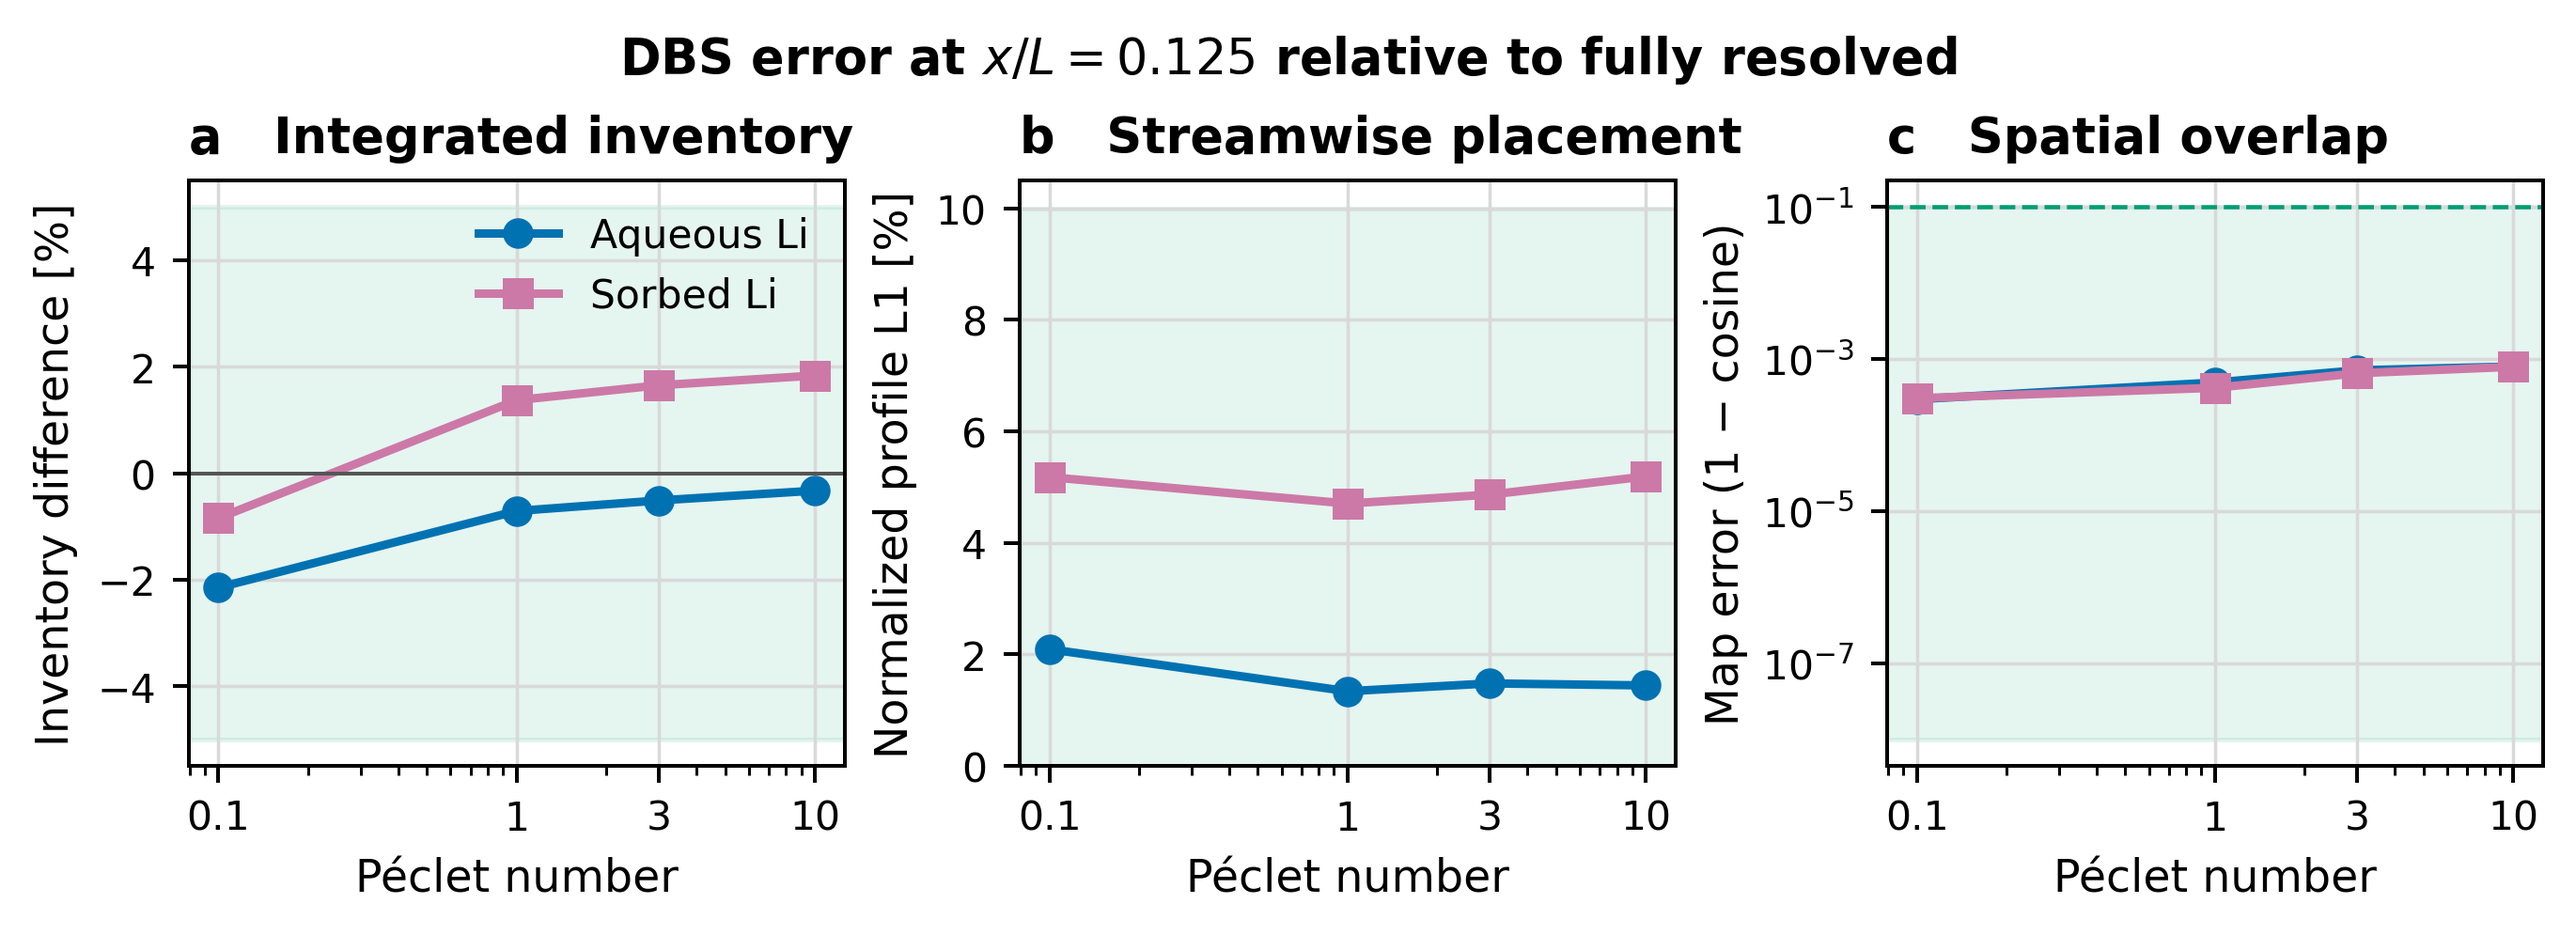
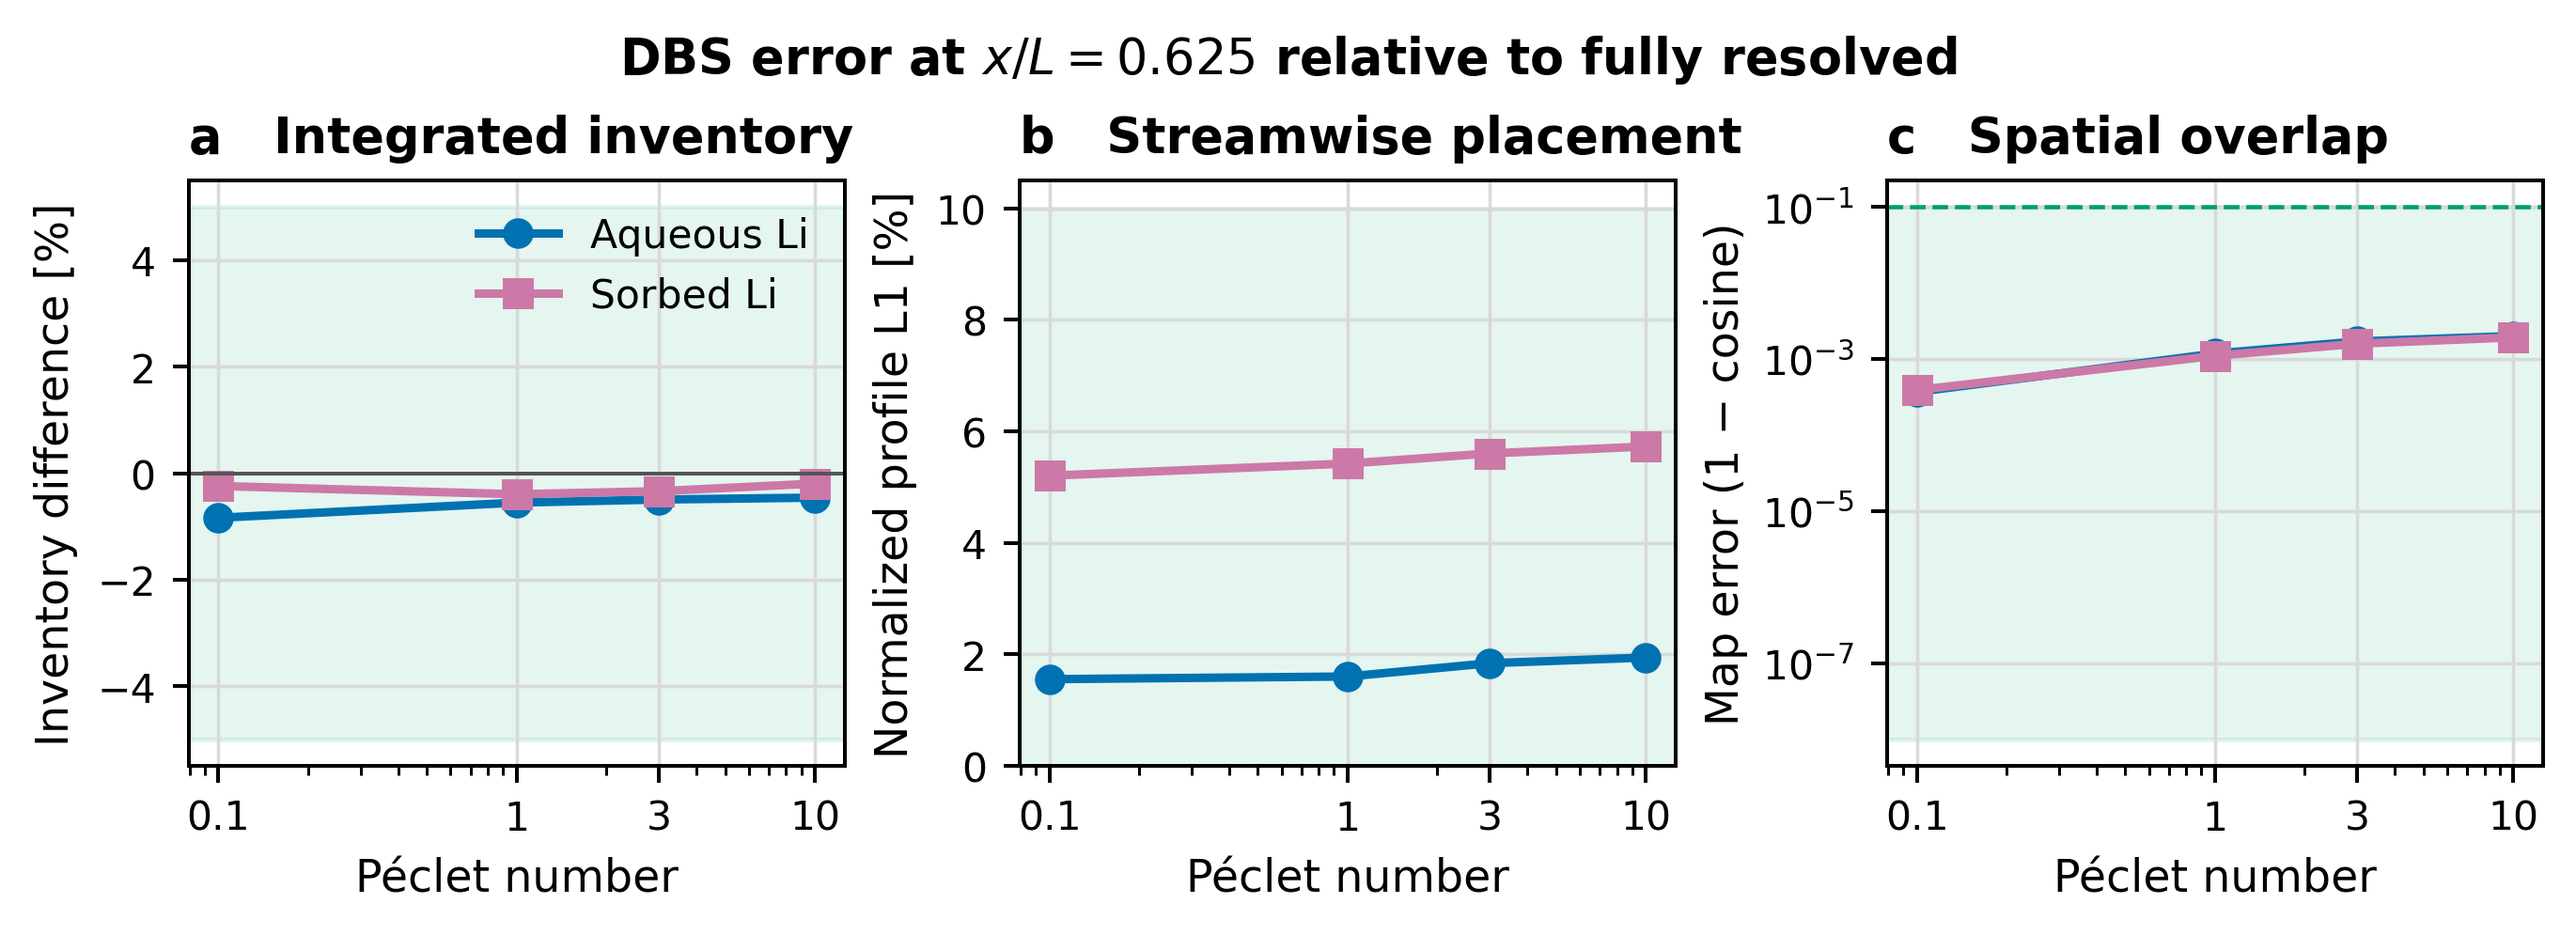
Correct Figure 9 to midpoint comparisons

diff --git a/papers/scalarTransportDBSFoam-phreeqc-surface-complexation/sections/05_validation.tex b/papers/scalarTransportDBSFoam-phreeqc-surface-complexation/sections/05_validation.tex
@@ -191,20 +191,20 @@ coarser images gave increasing local Li-field differences even where bulk
 porosity, permeability, and reactive area remained similar.
 
 Figure~\ref{fig:twoScaleErrorPe} compares aqueous and sorbed Li at
-$x/L=0.125$ for $\mathrm{Pe}=0.1$, $1$, $3$, and $10$. The acceptance limits
+$x/L=0.625$ for $\mathrm{Pe}=0.1$, $1$, $3$, and $10$. The acceptance limits
 were $5\%$ absolute inventory difference, $10\%$ normalized streamwise-profile
 L1 error, and $0.1$ map dissimilarity. Across the sweep, the largest aqueous
-and sorbed inventory differences are $2.15\%$ and $1.83\%$, respectively; the
-largest profile errors are $2.09\%$ and $5.19\%$; and every map dissimilarity
-is below $8.0\times10^{-4}$. All four cases therefore pass the predefined
-criteria. The error does not grow systematically with P\'{e}clet number, and no
+and sorbed inventory differences are $0.84\%$ and $0.40\%$, respectively; the
+largest profile errors are $1.94\%$ and $5.73\%$; and every map dissimilarity
+is below $2.1\times10^{-3}$. All four cases therefore pass the predefined
+criteria. Profile and map errors rise modestly with P\'{e}clet number, but no
 breakdown of the upscaling is observed by $\mathrm{Pe}=10$ for this geometry.
 
 \begin{figure}[htbp]
     \centering
     \includegraphics[width=\linewidth]{figures/png/fig09_two_scale_error_vs_peclet.png}
     \caption{DBS-upscaled error relative to the fully resolved lithium-sorption
-    reference at matched $x/L=0.125$. (a)~Signed differences in integrated
+    reference at matched $x/L=0.625$. (a)~Signed differences in integrated
     aqueous and sorbed Li inventory. (b)~Normalized L1 errors of the
     streamwise profiles. (c)~Map dissimilarity, defined as one minus cosine
     similarity. Green shading marks the predefined acceptance region in each

diff --git a/papers/scalarTransportDBSFoam-phreeqc-surface-complexation/sections/07_discussion.tex b/papers/scalarTransportDBSFoam-phreeqc-surface-complexation/sections/07_discussion.tex
@@ -67,8 +67,8 @@ resolves the local connectivity.
 
 The direct resolved-to-DBS comparison shows that the coarse representation also
 preserves the bulk transport and sorption response over the tested range
-$\mathrm{Pe}=0.1$--$10$. Inventory differences remain below $2.2\%$ and
-profile errors below $5.2\%$, with no systematic increase in error over the
+$\mathrm{Pe}=0.1$--$10$. Inventory differences remain below $0.9\%$ and
+profile errors below $5.8\%$. Profile and map errors rise modestly over the
 P\'{e}clet-number sweep. This establishes the tested range rather than a general
 asymptotic limit: higher P\'{e}clet numbers, different connectivity, or sharper
 kinetic fronts may still expose an upscaling failure.

diff --git a/papers/scalarTransportDBSFoam-phreeqc-surface-complexation/sections/01_abstract.tex b/papers/scalarTransportDBSFoam-phreeqc-surface-complexation/sections/01_abstract.tex
@@ -17,7 +17,7 @@ complex 3D image-based cases, based on Kelvin and Estaillades-style geometries,
 show that the formulation extends to fully three-dimensional pore structures
 while preserving the intended transport-reaction structure. A direct comparison
 against a fully resolved lithium-sorption micromodel gives aqueous and sorbed
-inventory differences below $2.2\%$ and profile errors below $5.2\%$ over
+inventory differences below $0.9\%$ and profile errors below $5.8\%$ over
 P\'{e}clet numbers from $0.1$ to $10$. Together, the
 results establish the conservative DBS surface-complexation coupling as a
 viable approach for multi-scale reactive transport in segmented porous-media

diff --git a/papers/scalarTransportDBSFoam-phreeqc-surface-complexation/sections/08_conclusions.tex b/papers/scalarTransportDBSFoam-phreeqc-surface-complexation/sections/08_conclusions.tex
@@ -23,7 +23,7 @@ transparent 2D and 3D image-based geometries; and (iii) remains computationally
 tractable at application scale, with chemistry representing 36--55\% of the
 total wall-clock time for the calcium surface-complexation system studied here;
 and (iv) matches fully resolved lithium transport and sorption with inventory
-differences below $2.2\%$ and profile errors below $5.2\%$ from
+differences below $0.9\%$ and profile errors below $5.8\%$ from
 $\mathrm{Pe}=0.1$ to $10$.
 
 The method closes a specific gap in existing DBS reactive transport

diff --git a/papers/scalarTransportDBSFoam-phreeqc-surface-complexation/figures/png/README.md b/papers/scalarTransportDBSFoam-phreeqc-surface-complexation/figures/png/README.md
@@ -48,7 +48,7 @@ Current staged figures:
   - right: normalised incremental Surf_aCa⁺ and Surf_aSr⁺ domain-mean vs time
 - `fig09_two_scale_error_vs_peclet.png`
   - fully resolved versus DBS-upscaled inventory, placement, and map errors at
-    matched `x/L = 0.125` for Pe=0.1, 1, 3, and 10
+    matched `x/L = 0.625` for Pe=0.1, 1, 3, and 10
 - `fig10_two_scale_pe1_fields.png`
   - native 5 micrometre Pe=1 aqueous and sorbed Li fields at `x/L = 0.625`
   - resolved grains are masked and no display averaging is applied

diff --git a/papers/scalarTransportDBSFoam-phreeqc-surface-complexation/figures/png/manifest.md b/papers/scalarTransportDBSFoam-phreeqc-surface-complexation/figures/png/manifest.md
@@ -143,7 +143,7 @@
 - content:
   - DBS-minus-resolved aqueous and sorbed Li inventory differences
   - normalized streamwise-profile L1 errors
-  - native-domain map dissimilarity at matched `x/L = 0.125`
+  - native-domain map dissimilarity at matched `x/L = 0.625`
 - source case:
   - `papers/scalarTransportDBSFoam-phreeqc-surface-complexation/cases/two_scale_micromodel_sorption_validation`
 - renderer:
